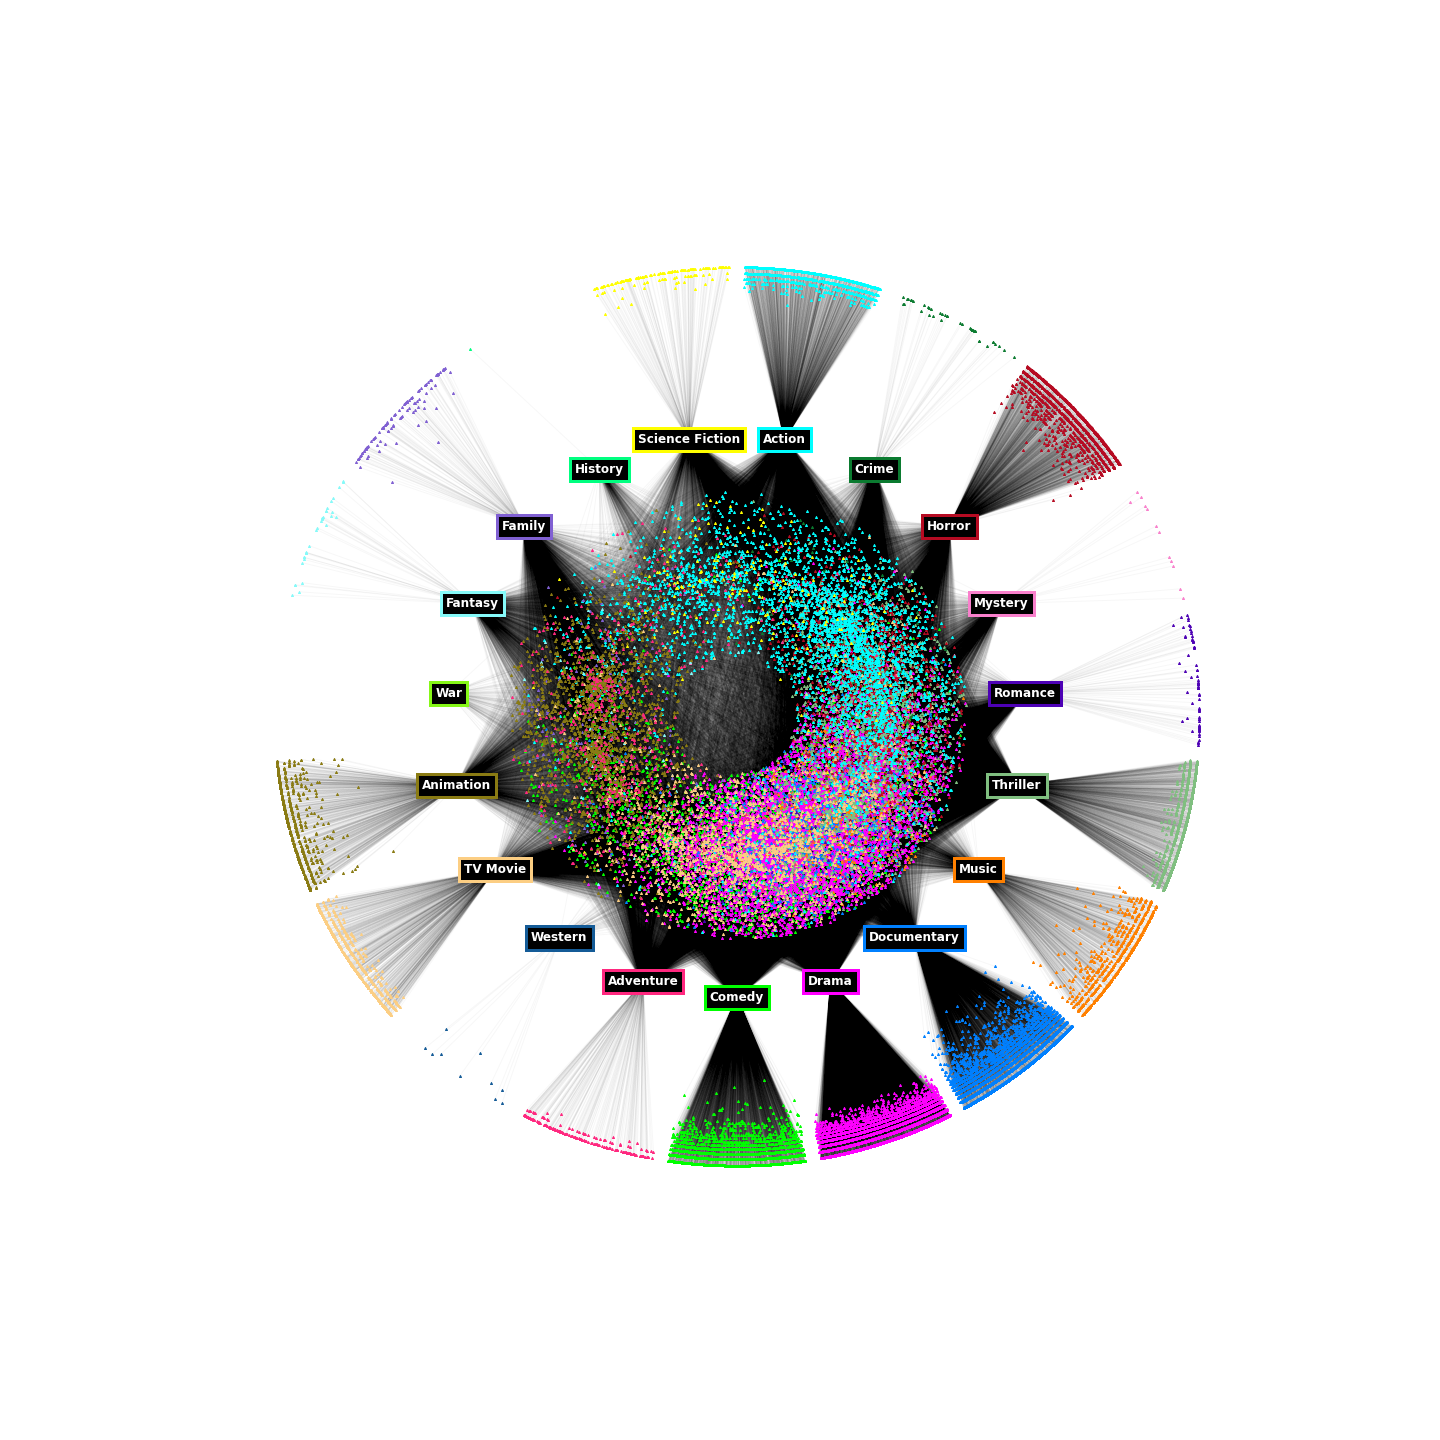
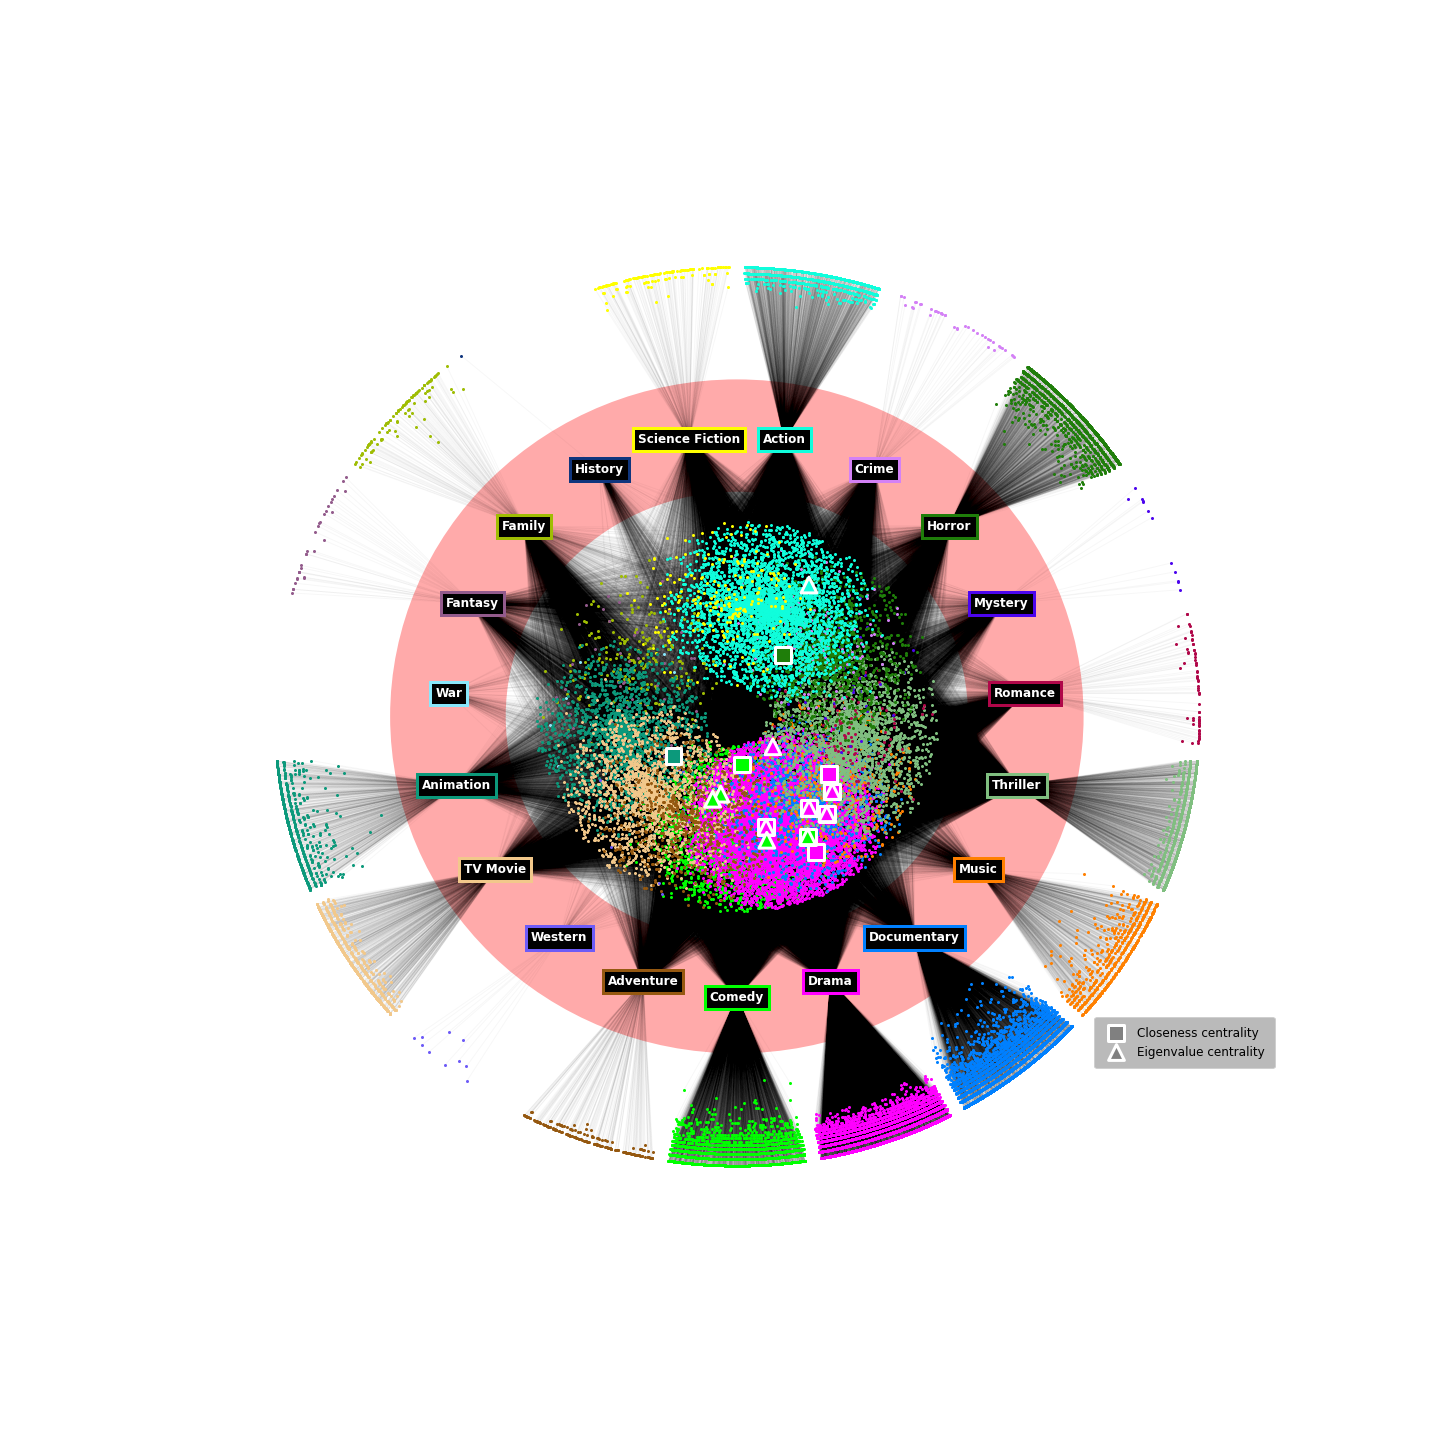
Graph done + dataset part 1

diff --git a/index.html b/index.html
@@ -20,7 +20,7 @@
     <span id="menu-top">
       <h1>Content</h1>
     </span>
-    <div><input type="radio" id="menu0" class="menu-radio" name="menu-tab" checked><label class="menu-label" for="menu0">Overview</label></div>
+    <div><input type="radio" id="menu0" class="menu-radio" name="menu-tab" checked><label class="menu-label" for="menu0">Introduction</label></div>
     <div><input type="radio" id="menu1" class="menu-radio" name="menu-tab"        ><label class="menu-label" for="menu1">Dataset</label></div>
     <div><input type="radio" id="menu2" class="menu-radio" name="menu-tab"        ><label class="menu-label" for="menu2">Graph</label></div>
     <div><input type="radio" id="menu3" class="menu-radio" name="menu-tab"        ><label class="menu-label" for="menu3">Text analysis</label></div>
@@ -29,19 +29,41 @@
   </fieldset>
   <div id="content">
     <div class="page">
-      <h1>Overview: Lorem ipsum</h1>
-      <p>Lorem Ipsum is simply dummy text of the printing and typesetting industry. Lorem Ipsum has been the industry's standard dummy text ever since the 1500s, when an unknown printer took a galley of type and scrambled it to make a type specimen book. It has survived not only five centuries, but also the leap into electronic typesetting, remaining essentially unchanged. It was popularised in the 1960s with the release of Letraset sheets containing Lorem Ipsum passages, and more recently with desktop publishing software like Aldus PageMaker including versions of Lorem Ipsum.</p>
-      <p>Lorem Ipsum is simply dummy text of the printing and typesetting industry. Lorem Ipsum has been the industry's standard dummy text ever since the 1500s, when an unknown printer took a galley of type and scrambled it to make a type specimen book. It has survived not only five centuries, but also the leap into electronic typesetting, remaining essentially unchanged. It was popularised in the 1960s with the release of Letraset sheets containing Lorem Ipsum passages, and more recently with desktop publishing software like Aldus PageMaker including versions of Lorem Ipsum.</p>
-      <p>Lorem Ipsum is simply dummy text of the printing and typesetting industry. Lorem Ipsum has been the industry's standard dummy text ever since the 1500s, when an unknown printer took a galley of type and scrambled it to make a type specimen book. It has survived not only five centuries, but also the leap into electronic typesetting, remaining essentially unchanged. It was popularised in the 1960s with the release of Letraset sheets containing Lorem Ipsum passages, and more recently with desktop publishing software like Aldus PageMaker including versions of Lorem Ipsum.</p>
-      <h1 class="center">Why?</h1>
-      <p class="center">Why not?</p>
-      <h1>Facts:</h1>
+      <h1 class="center">Introduction</h1>
+      <h2 class="center">This is the project submission for the course 02467: <br> computational social science (spring)</h2>
+      <h3 class="center">Group 15: s....</h3>
+      <p>The goal of our investigation was to find out more about the entertainment industry than what is currently known by the general public.</p>
+
       <!-- <p class="right" style="--slide-from: translateX(-900px);--animation-speed:1s;">Commonly used as a test for text layout</p> -->
     </div>
     <div class="page">
-      <h1>Dataset: An empty screen</h1>
-      <p>Just an empty screen</p>
-      <div class="grid-dataset" style="--slide-from: translateX(900px); --animation-speed:0.1s;">
+      <h1>Dataset: movies</h1>
+      <p>Our datasets has been retrieved from <strong>themoviedb</strong>(<a href="https://api.themoviedb.org">api.themoviedb.org</a>) and consist of two different datasets:</p>
+      <ul>
+        <li>The first being the movie dataset which contains information about movies from 2000-2024 that are available in English.</li>
+        <li>The second is the 'people' dataset which holds information about the cast and crew that have worked on these movies.</li>
+      </ul>
+      <p>These datasets can later be linked together based on the movie ID's</p>
+      
+      <h3>Fetching:</h3>
+      <p>For fetching our movie ID's, the following criterias had been set:</p>
+      <ul>
+        <li>has an ID</li>
+        <li>is released between years 2000 to 2024</li>
+        <li>available in the English language</li>
+      </ul>
+      <p>After retrieving these ID's, the full movie dataset was requested.</p>
+      <p>For our 'people' dataset, the requirement was that they had worked on a movie with an ID listed in our movie dataset.</p>
+
+      <h3>Preprocessing</h3>
+      <p>After fecthing our data was done, a preprocessing was performed with these criterias:</p>
+      <ul>
+        <li>remove adult due to inconsitent info </li>
+        <li>columns which were of no interest (like backdrop, poster, homepage etc.) </li>
+      </ul>
+      <p></p>
+
+      <!-- <div class="grid-dataset" style="--slide-from: translateX(900px); --animation-speed:0.1s;">
         <div>1</div>
         <div>2</div>
         <div>3</div>
@@ -52,25 +74,43 @@
         <div>8</div>
         <div>9</div>
         <div>10</div>
-      </div>
+      </div> -->
     </div>  
     <div class="page">
       <h1>Graph</h1>
-      <div class="center"><img src="imgs/graph_custom.png" alt="Movie graph" width="1000px" height="700px" style="object-fit: cover;"></div>
-      <p>Undirected, directed, bipartite, backbone, weighted...</p>
+      <p>By connecting movie genres with movie crew and cast (refered to members in this work) a bipartite graph can be extracted, 
+        with weights equal to number of movies a member has worked on before, which contains a given genre. As movie can have multiple genres, 
+        a lot of members have worked in a few genre once. 
+        We therefore apply a threshold level of minimum 5 movies which had the same genre in before an edge can be established. </p>
+      <div class="center"><img src="imgs/graph_custom.png" alt="Bipartite graph with genre and member" width="1100px" height="700px" style="object-fit: cover;"></div>
+      <p>The graph contains in total of 55037 nodes where 55018 are members and 19 are genres. Genres can be found in the red ring 
+        and members are given color based on their main genre aka. genre with highest weight. Members who only have worked with a single genre 
+        are placed outside of the red ring with their corresponding genre and placed closer to the label the higher their weights are. 
+        The documentary genre has a lot of members who has only been working with this genre multiple times whereas the war genre does not have any member with a single genre. 
+        Members who have worked on multiple genres are placed inside the red ring, with their positions skewed towards mostly their main genre.
+      </p>
+      <p>Furthermore the 10 members with highest closeness centrality scores are highlighted as squares while eigenvalue centrality members are 
+        highlighted as triangles. Most of the closeness members have drama as their main genre with comedy being second and could indicate multiple options. 
+        Either these genres are often combined other genres, members enjoy these or they are easier to work with and make movies with. 
+        The eigenvalue members are either drama or comedy, showing that these genres are also quite important for the members as well and may be why they joined the film industry.
+      <!-- <p>By creating a random network with same edge probability, we get the following distribution over degrees:</p>
+      <div class="center"><img src="imgs/random_distribution.png" alt="Result of random distribution analysis" width="1000px"></div>
+      <p>The random distribution overlaps with our distribution at the beginning, but our distribution contains way more nodes with high degrees, indicating that members 
+        either work in different genres  </p> -->
+
     </div>
     <div class="page">
       <h1>Text analysis</h1>
-      <p> Since we have summaries of each movie in the "overview" column, it is possible to perform a textual analysis on this data.
+      <p> Since we have summaries of each movie in the "overview" column, it is possible to perform a textual analysis on this data. 
         We can achieve 19 different communities within the data by seperating the movies by genre, and treating all the movies in the same genre as a seperate community.
         Since there are 11 genres with less than 1000 movies, these will be filtered out since their contribution to the inverse document frequency across the communities will be minimal.
-        This leaves 8 genres: "Comedy", "Drama", "Thriller", "Documentary", "Music", "Animation", "Horror" and "Science Fiction".
-        Combining and tokenizing the overviews of every movie within these genres yields a list of tokens describing the genre.
+        This leaves 8 genres: "Comedy", "Drama", "Thriller", "Documentary", "Music", "Animation", "Horror" and "Science Fiction". </p>
+      <p> Combining and tokenizing the overviews of every movie within these genres yields a list of tokens describing the genre.
         The tokens have been stemmed using the stemmer from the nltk python package, which uses regular expressions to filter out part of the terms.
         Once these lists of tokens were achieved, the term frequency for each genre could be calculated, as well as the overall inverse document frequency.
         With the term frequency and inverse document frequency in hand, it was possible to calculate TF-IDF scores for each genre.
         In the below figure a wordcloud is shown for each genre, depicting the 10 terms within each genre with the highest TF-IDF.</p>
-      <div class="center"><img src="imgs/tf_idf_wordcloud.png" alt="Wordcloud over each genre" width="1000"></div>
+      <div class="center"><img src="imgs/tf_idf_wordcloud.png" alt="Wordcloud over each movie genre" width="1000"></div>
       <p> The wordclouds showcase both the advantages and disadvantages of TF-IDF. Genres like "Comedy", "Horror" and "Science Fiction" have terms
         that are clearly descriptive of the genre to anyone who knows them. However, "Thriller" and "Documentary" are not as clear.
         They seem to be populated by rare names in specific movies that appear many times in that single movie's specific overview, since these unique names will be very rare across all docuemnts.

diff --git a/backend-page.css b/backend-page.css
@@ -2,11 +2,11 @@
   from {transform: var(--slide-from); opacity: 0;}
   to   {transform: translateX(0px) translateY(0px); opacity: 1;}
 }
-body:has(#menu > div:nth-of-type(1) > input:checked) > #content > .page:nth-child(1) > * { animation: slide-in var(--animation-speed) ease-in-out calc(var(--delay) + var(--timing)) backwards; opacity: 1; transform: translateX(0) translateY(0); }
-body:has(#menu > div:nth-of-type(2) > input:checked) > #content > .page:nth-child(2) > * { animation: slide-in var(--animation-speed) ease-in-out calc(var(--delay) + var(--timing)) backwards; opacity: 1; transform: translateX(0) translateY(0); }
-body:has(#menu > div:nth-of-type(3) > input:checked) > #content > .page:nth-child(3) > * { animation: slide-in var(--animation-speed) ease-in-out calc(var(--delay) + var(--timing)) backwards; opacity: 1; transform: translateX(0) translateY(0); }
-body:has(#menu > div:nth-of-type(4) > input:checked) > #content > .page:nth-child(4) > * { animation: slide-in var(--animation-speed) ease-in-out calc(var(--delay) + var(--timing)) backwards; opacity: 1; transform: translateX(0) translateY(0); }
-body:has(#menu > div:nth-of-type(5) > input:checked) > #content > .page:nth-child(5) > * { animation: slide-in var(--animation-speed) ease-in-out calc(var(--delay) + var(--timing)) backwards; opacity: 1; transform: translateX(0) translateY(0); }
+body:has(#menu > div:nth-of-type(1) > input:checked) > #content > .page:nth-child(1) > * { pointer-events: initial; animation: slide-in var(--animation-speed) ease-in-out calc(var(--delay) + var(--timing)) backwards; opacity: 1; transform: translateX(0) translateY(0); }
+body:has(#menu > div:nth-of-type(2) > input:checked) > #content > .page:nth-child(2) > * { pointer-events: initial; animation: slide-in var(--animation-speed) ease-in-out calc(var(--delay) + var(--timing)) backwards; opacity: 1; transform: translateX(0) translateY(0); }
+body:has(#menu > div:nth-of-type(3) > input:checked) > #content > .page:nth-child(3) > * { pointer-events: initial; animation: slide-in var(--animation-speed) ease-in-out calc(var(--delay) + var(--timing)) backwards; opacity: 1; transform: translateX(0) translateY(0); }
+body:has(#menu > div:nth-of-type(4) > input:checked) > #content > .page:nth-child(4) > * { pointer-events: initial; animation: slide-in var(--animation-speed) ease-in-out calc(var(--delay) + var(--timing)) backwards; opacity: 1; transform: translateX(0) translateY(0); }
+body:has(#menu > div:nth-of-type(5) > input:checked) > #content > .page:nth-child(5) > * { pointer-events: initial; animation: slide-in var(--animation-speed) ease-in-out calc(var(--delay) + var(--timing)) backwards; opacity: 1; transform: translateX(0) translateY(0); }
 
 #content {
   width: 100%;
@@ -24,7 +24,7 @@ body:has(#menu > div:nth-of-type(5) > input:checked) > #content > .page:nth-chil
     width: 100%;
     height: 100%;
     pointer-events: none;
-    box-shadow: inset white 0px 80px 60px, inset white 0px -80px 60px;
+    box-shadow: inset white 0px 80px 70px, inset white 0px -80px 70px;
   }
 }
 
@@ -36,10 +36,12 @@ body:has(#menu > div:nth-of-type(5) > input:checked) > #content > .page:nth-chil
   margin-left: auto; 
   margin-right: auto; 
   width: 85%;
+  pointer-events: none;
+  
 }
 .page > * {
   /* transition: transform var(--animation-speed) ease-in-out var(--timing), opacity var(--animation-speed) ease-in-out var(--timing); */
-  transition: transform var(--animation-speed) ease-in-out, opacity var(--animation-speed) ease-in-out;
+  transition: transform var(--animation-speed) ease-in-out, opacity var(--animation-speed) ease-in-out, visibility 0s var(--animation-speed) linear;
   transform: var(--slide-to);
   opacity: 0;
 }

diff --git a/content.css b/content.css
@@ -8,17 +8,31 @@
   border-bottom: solid 2px;
   border-image: linear-gradient(to top,#a07, #607, #60a) 0 1 100%;
 }
-.page > p:not(.default) {
+.page > h2, .page > h3 {
+  padding: 10px;
+  margin-bottom: 20px;
+}
+.page > p {
   margin: 0px 60px;
   padding-bottom: 15px;
   font-size: 20px;
-  white-space: pre-line;
+  /* white-space: pre-line; */
+  text-align: justify;
   /* text-indent: 20px; */
-  &::first-letter {
+  &:first-of-type:first-letter {
+    -webkit-initial-letter: 2 1;
     initial-letter: 2 1;
-    padding-right: 2px;
+    padding-right: 3px;
     color: #607;
   }
+}
+.page > ul {
+  margin: 0px 60px;
+  padding-bottom: 15px;
+  font-size: 20px;
+  text-align: justify;
+
+  list-style-position: inside;
 }
 
 .page > div {

diff --git a/backend-menu.css b/backend-menu.css
@@ -43,6 +43,7 @@
   height: 100%;
 
   cursor: pointer;
+  -webkit-user-select: none;
   user-select: none;
   &:hover {
     background-color: #0004;
